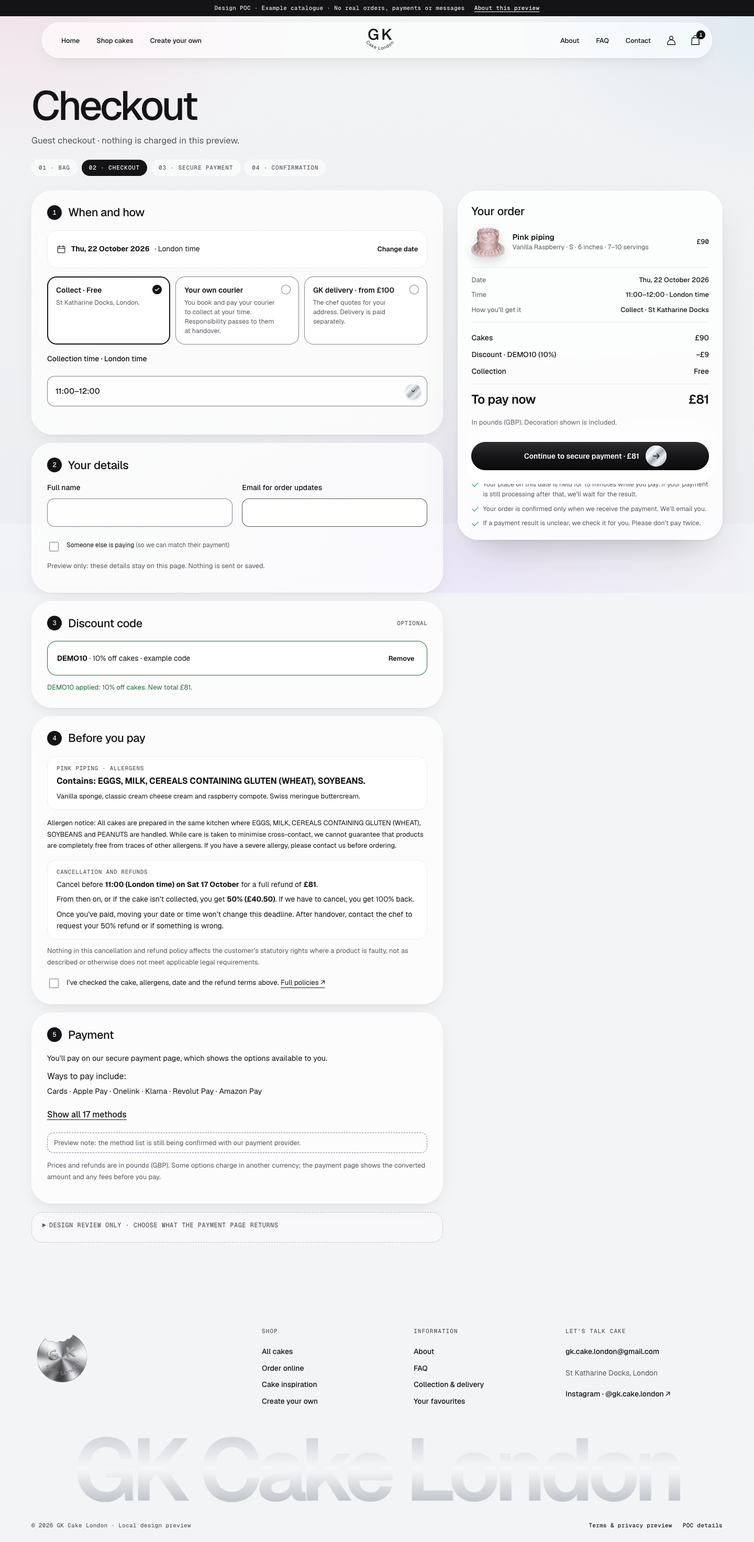
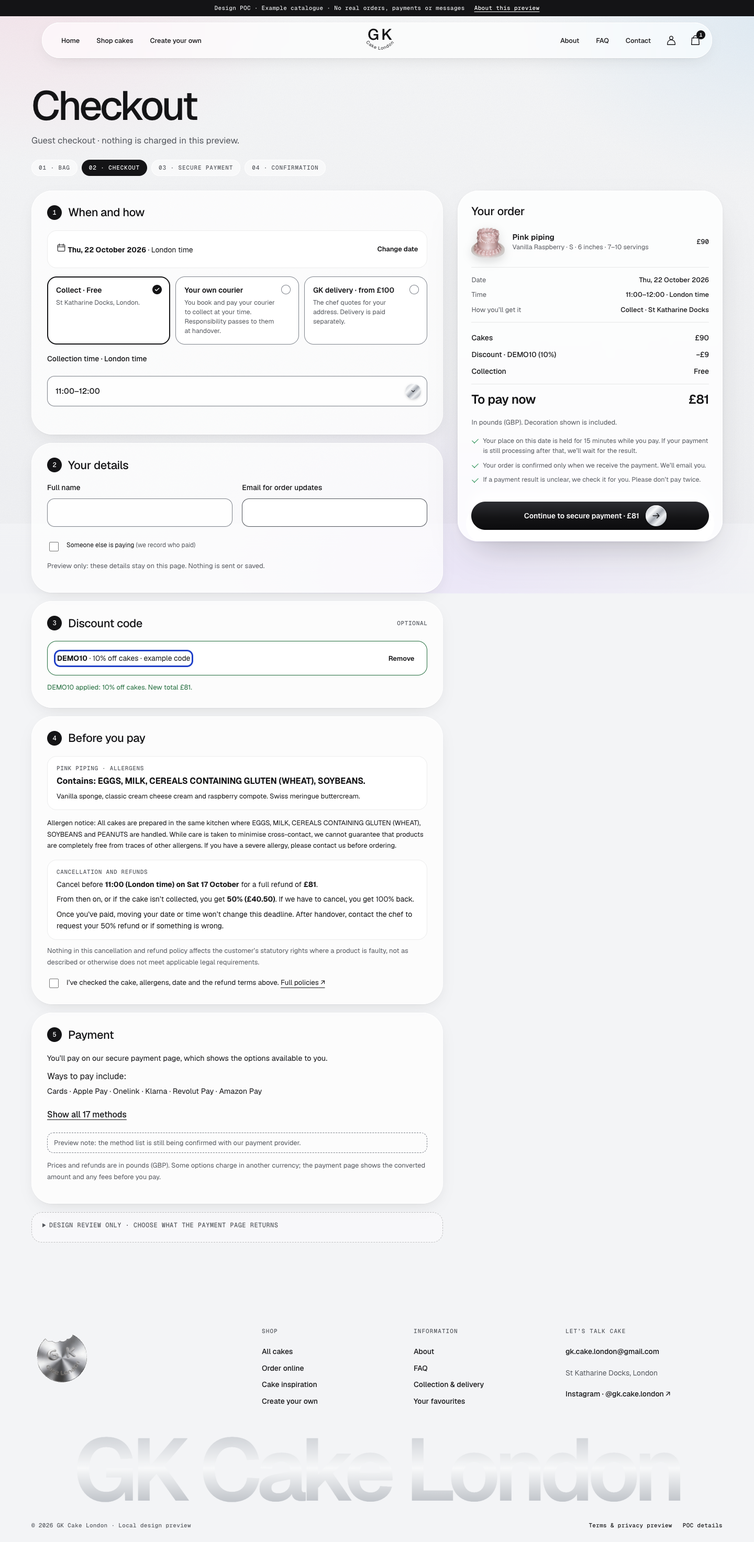
GK-017 r01: address independent review round 3

Changed region(s): [[0.625, 0.2812, 0.9375, 0.3436]]

diff --git a/docs/design/sessions/checkout-recovery/gk-017-r01/poc/app.js b/docs/design/sessions/checkout-recovery/gk-017-r01/poc/app.js
@@ -136,19 +136,19 @@ function bagPage(){const items=bag().map(product);return `<div class="wrap">${ti
 function checkout(){const existing=read('order',null);if(['pending','late'].includes(existing?.state))return `<div class="wrap">${title('Your payment needs a result')}<div class="narrow"><div class="notice">${existing.state==='pending'?'This demo payment is still unknown. Do not start another payment.':'Payment was received; date agreement is pending. Do not pay again.'}</div><a class="button primary" href="order.html">View current status →</a><p class="small quiet">To test a different scenario, explicitly clear demo data on the policy preview page.</p></div></div>`;const items=bag().map(product);if(!items.length)return `<div class="wrap">${title('Checkout')}${empty('Your bag is empty','Choose a cake before previewing checkout.')}</div>`;const sub=items.reduce((n,p)=>n+p.price,0);const methods=['Cards','Apple Pay','Onelink','Klarna','Revolut Pay','Amazon Pay','Cartes Bancaires','Samsung Pay','Satispay','MB WAY','Bancontact','BLIK','EPS','Pix','Kakao Pay','Naver Pay','PAYCO'];
 return `<div class="wrap checkout-page">${title('Checkout','Guest checkout · nothing is charged in this preview.')}<ol class="steps co-steps"><li>01 · Bag</li><li class="active" aria-current="step">02 · Checkout</li><li>03 · Secure payment</li><li>04 · Confirmation</li></ol><p class="co-step-short">Step 2 of 4 · Checkout</p><a class="co-mobile-total" href="#sum-title"><span id="sum-total-top-label">To pay now</span><strong id="sum-total-top">${money(sub)}</strong><span class="co-mobile-link">View order<span aria-hidden="true"> ↓</span></span></a><div class="checkout-layout"><form id="checkout-form" novalidate><div id="error-summary" class="co-errors" role="alert" tabindex="-1" hidden></div>
 <section class="co-card"><h2 class="co-h"><span class="co-num" aria-hidden="true">1</span>When and how</h2><div class="co-date"><span>${icon('calendar')} <strong>${escape(dateLabel(chosenDate()))}</strong> · London time</span><button class="text-link" type="button" data-date>Change date</button></div><fieldset class="co-modes"><legend class="sr-only">How you will get your cake</legend><label class="mode-card"><input type="radio" name="fulfilment" value="collection" checked><span><strong>Collect · Free</strong><small>St Katharine Docks, London.</small></span></label><label class="mode-card"><input type="radio" name="fulfilment" value="courier"><span><strong>Your own courier</strong><small>You book and pay your courier to collect at your time. Responsibility passes to them at handover.</small></span></label><label class="mode-card"><input type="radio" name="fulfilment" value="delivery"><span><strong>GK delivery · from £100</strong><small>The chef quotes for your address. Delivery is paid separately.</small></span></label></fieldset><label class="field" for="slot"><span id="checkout-slot-label">Collection time · London time</span></label><select id="slot" name="slot" aria-labelledby="checkout-slot-label" aria-describedby="slot-status"><option value="">Choose a time</option>${demoSlots(chosenDate()).map(t=>`<option ${read('slot','')===t?'selected':''}>${t}</option>`).join('')}</select><p id="slot-status" class="small quiet co-status" role="status"></p><p id="slot-error" class="field-error" hidden>Choose a time.</p><div id="delivery-note" class="notice co-delivery-note" hidden><p><strong>GK delivery starts with a request.</strong> The chef first confirms your address, time and delivery price. Then you pay: the cakes through a payment link valid for 24 hours, and delivery as a separate payment, unless a free-delivery code is approved.</p><p class="small">Sending a delivery request is designed in the next revision. This preview can’t send one.</p></div></section>
-<section class="co-card"><h2 class="co-h"><span class="co-num" aria-hidden="true">2</span>Your details</h2><div class="two-fields"><div><label class="field">Full name<input id="name" name="name" autocomplete="name" maxlength="80"></label><p id="name-error" class="field-error" hidden>Enter your full name.</p></div><div><label class="field">Email for order updates<input id="email" name="email" type="email" autocomplete="email" maxlength="120"></label><p id="email-error" class="field-error" hidden>Enter an email address like name@example.com.</p></div></div><label class="check-line co-payer-toggle"><input type="checkbox" name="otherPayer" id="other-payer"><span>Someone else is paying <span class="quiet">(so we can match their payment)</span></span></label><div id="payer-field" hidden><label class="field">Payer’s full name<input id="payer" name="payer" autocomplete="off" maxlength="80"></label><p id="payer-error" class="field-error" hidden>Enter the payer’s full name.</p></div><p class="small quiet">Preview only: these details stay on this page. Nothing is sent or saved.</p></section>
+<section class="co-card"><h2 class="co-h"><span class="co-num" aria-hidden="true">2</span>Your details</h2><div class="two-fields"><div><label class="field">Full name<input id="name" name="name" autocomplete="name" maxlength="80"></label><p id="name-error" class="field-error" hidden>Enter your full name.</p></div><div><label class="field">Email for order updates<input id="email" name="email" type="email" autocomplete="email" maxlength="120"></label><p id="email-error" class="field-error" hidden>Enter an email address like name@example.com.</p></div></div><label class="check-line co-payer-toggle"><input type="checkbox" name="otherPayer" id="other-payer"><span>Someone else is paying <span class="quiet">(we record who paid)</span></span></label><div id="payer-field" hidden><label class="field">Payer’s full name<input id="payer" name="payer" autocomplete="off" maxlength="80"></label><p id="payer-error" class="field-error" hidden>Enter the payer’s full name.</p></div><p class="small quiet">Preview only: these details stay on this page. Nothing is sent or saved.</p></section>
 <section class="co-card"><h2 class="co-h"><span class="co-num" aria-hidden="true">3</span>Discount code <span class="co-optional">optional</span></h2><div class="code-row" id="code-row"><label class="field"><span class="sr-only">Discount code</span><input name="code" id="code-input" autocomplete="off" maxlength="30" placeholder="Enter a code" aria-describedby="code-status"></label><button type="button" id="apply-code">Apply</button></div><div class="code-chip" id="code-applied" hidden><span id="code-chip-text" tabindex="-1"></span><button type="button" class="text-link" id="remove-code">Remove</button></div><p id="code-status" class="small code-status" role="status">One code per order. Try the example code <strong>DEMO10</strong>.</p></section>
 <section class="co-card"><h2 class="co-h"><span class="co-num" aria-hidden="true">4</span>Before you pay</h2>${items.map(p=>`<div class="co-allergen"><p class="co-label">${p.name} · allergens</p>${p.id==='chocolate'?'<p class="allergen-alert">Contains PEANUTS</p>':''}<p><strong>Contains: EGGS, MILK, CEREALS CONTAINING GLUTEN (WHEAT), SOYBEANS${p.id==='chocolate'?', PEANUTS':''}.</strong></p><p class="small">${p.composition} Swiss meringue buttercream.</p></div>`).join('')}<p class="cross-contact small">${NOTICE}</p><div class="co-policy" id="refund-terms"><p class="co-label">Cancellation and refunds</p><p>Choose a time to see your exact cancellation deadline.</p></div><p class="small quiet co-statutory">Nothing in this cancellation and refund policy affects the customer’s statutory rights where a product is faulty, not as described or otherwise does not meet applicable legal requirements.</p><label class="check-line co-confirm"><input type="checkbox" id="reviewed" name="reviewed"><span>I’ve checked the cake, allergens, date and the refund terms above. <a href="policies.html" target="_blank" rel="noopener">Full policies<span class="sr-only"> (opens in a new tab)</span> ↗</a></span></label><p id="reviewed-error" class="field-error" hidden>Tick to confirm you’ve checked your order.</p></section>
 <section class="co-card"><h2 class="co-h"><span class="co-num" aria-hidden="true">5</span>Payment</h2><p class="co-lead">You’ll pay on our secure payment page, which shows the options available to you.</p><p class="co-methods-label">Ways to pay include:</p><p class="pay-list">${methods.slice(0,6).join(' · ')}</p><details class="pay-all"><summary>Show all ${methods.length} methods</summary><p class="pay-list">${methods.join(' · ')}</p></details><p class="preview-note small">Preview note: the method list is still being confirmed with our payment provider.</p><p class="small quiet">Prices and refunds are in pounds (GBP). Some options charge in another currency; the payment page shows the converted amount and any fees before you pay.</p></section>
 <details class="review-tools"><summary>Design review only · choose what the payment page returns</summary><label class="field">Simulated result<select name="outcome"><option value="success">Payment confirmed</option><option value="pending">Payment result unknown</option><option value="late">Paid too late for the preparation time · date awaiting agreement</option><option value="changed">Price changed before payment</option><option value="failed">Payment failed</option><option value="expired">Payment link expired</option><option value="recovery">Checkout temporarily unavailable</option></select></label><p class="small quiet">Not a payment method choice. No payment provider is contacted.</p></details>
-</form><aside class="co-summary" aria-labelledby="sum-title"><h2 id="sum-title">Your order</h2>${items.map(p=>`<div class="sum-item">${image(p.id)}<div><strong>${p.name}</strong><span>${p.flavour} · ${p.size} · ${p.serves} servings</span></div><span class="sum-price">${money(p.price)}</span></div>`).join('')}<dl class="sum-meta"><div><dt>Date</dt><dd>${escape(dateLabel(chosenDate()))}</dd></div><div><dt>Time</dt><dd id="sum-time">Choose a time</dd></div><div><dt>How you’ll get it</dt><dd id="sum-mode">Collect · St Katharine Docks</dd></div></dl><div class="totals"><span>Cakes</span><span id="sum-sub">${money(sub)}</span></div><div class="totals" id="sum-discount-row" hidden><span id="sum-discount-label">Discount</span><span id="sum-discount"></span></div><div class="totals"><span id="sum-fulfil-label">Collection</span><span id="sum-fulfil">Free</span></div><div class="totals total"><span id="sum-total-label">To pay now</span><span id="sum-total">${money(sub)}</span></div><p class="small quiet" id="sum-note">In pounds (GBP). Decoration shown is included.</p><button type="submit" form="checkout-form" class="primary co-pay" id="preview-payment"><span id="pay-label">Continue to secure payment · ${money(sub)}</span> ${icon('arrow')}</button><ul class="co-assure"><li id="assure-hold">Your place on this date is held for 15 minutes while you pay. If your payment is still processing after that, we’ll wait for the result.</li><li id="assure-confirm">Your order is confirmed only when we receive the payment. We’ll email you.</li><li id="assure-twice">If a payment result is unclear, we check it for you. Please don’t pay twice.</li></ul><p id="pay-status" class="sr-only" role="status"></p></aside></div></div>`}
+</form><aside class="co-summary" aria-labelledby="sum-title"><h2 id="sum-title">Your order</h2>${items.map(p=>`<div class="sum-item">${image(p.id)}<div><strong>${p.name}</strong><span>${p.flavour} · ${p.size} · ${p.serves} servings</span></div><span class="sum-price">${money(p.price)}</span></div>`).join('')}<dl class="sum-meta"><div><dt>Date</dt><dd>${escape(dateLabel(chosenDate()))}</dd></div><div><dt>Time</dt><dd id="sum-time">Choose a time</dd></div><div><dt>How you’ll get it</dt><dd id="sum-mode">Collect · St Katharine Docks</dd></div></dl><div class="totals"><span>Cakes</span><span id="sum-sub">${money(sub)}</span></div><div class="totals" id="sum-discount-row" hidden><span id="sum-discount-label">Discount</span><span id="sum-discount"></span></div><div class="totals"><span id="sum-fulfil-label">Collection</span><span id="sum-fulfil">Free</span></div><div class="totals total"><span id="sum-total-label">To pay now</span><span id="sum-total">${money(sub)}</span></div><p class="small quiet" id="sum-note">In pounds (GBP). Decoration shown is included.</p><ul class="co-assure"><li id="assure-hold">Your place on this date is held for 15 minutes while you pay. If your payment is still processing after that, we’ll wait for the result.</li><li id="assure-confirm">Your order is confirmed only when we receive the payment. We’ll email you.</li><li id="assure-twice">If a payment result is unclear, we check it for you. Please don’t pay twice.</li></ul><button type="submit" form="checkout-form" class="primary co-pay" id="preview-payment"><span id="pay-label">Continue to secure payment · ${money(sub)}</span> ${icon('arrow')}</button><p id="pay-status" class="sr-only" role="status"></p></aside></div></div>`}
 function orderPage(){const raw=read('order',null);const example=params.get('example')==='true';const o=example?{items:['pink'],date:'2026-10-22',slot:'11:00–12:00',state:'success',mode:'collection'}:raw;if(!o||!Array.isArray(o.items))return `<div class="wrap">${title('Your order')}${empty('No order preview yet','Complete the demo checkout to explore order states.')}</div>`;const items=o.items.map(product).filter(Boolean);const state=['success','pending','late','failed','expired','recovery','changed','cancelled'].includes(o.state)?o.state:'pending';const copy={success:['A moment to look forward to','Simulated order confirmation. No payment was taken and no order or email was created.'],pending:['We’re checking your payment','Demo: the result is unknown. Do not pay again. Wait for a confirmed result; a redirect or expired hold is not payment failure.'],late:['Payment received. Let’s agree your date.','Demo: payment is known successful, but the date needs review. The chef checks feasibility and you explicitly agree; otherwise a full refund is due. Preparation and fulfilment wait.'],changed:['Please review the latest price','Demo: the catalogue price changed before payment. A fresh quote and your agreement to its current total are required. Nothing was paid. Accepted order totals stay unchanged.'],failed:['That payment didn’t go through','Demo: a definitive payment failure. Your cake selection is retained.'],expired:['This payment link has expired','Demo: the 24-hour window for starting payment has ended. Ask the chef for a newly reviewed agreement. An already in-flight payment would keep waiting.'],recovery:['Checkout is temporarily unavailable','Demo: no new payment can start while recovery readiness is unavailable. Your cake selection is retained.'],cancelled:['Cancellation requested in this demo','This local simulation did not cancel a real order or return money. Refund requested and refund completed are distinct states.']}[state];return `<div class="wrap">${title(copy[0])}<div class="narrow"><div class="notice ${state==='success'?'success':''}">${copy[1]}</div><p class="eyebrow">DEMO-001 · Simulated ${example?'account example':'checkout'}</p><div class="content-banner"><h2>${items.map(p=>p.name).join(' & ')}</h2><p>${escape(dateLabel(o.date))} · ${escape(o.slot||'Time to agree')} · London time</p>${o.discount?`<p>Discount${o.code?' · '+escape(o.code):''}: <strong>−${money(o.discount)}</strong></p>`:''}<p>${state==='changed'?'Previous cake total':'Cake total'}: <strong>${money(Number.isInteger(o.total)?o.total:items.reduce((n,p)=>n+p.price,0))}</strong></p><p>${o.mode==='courier'?'Customer-arranged courier':o.mode==='delivery'?'GK delivery request not yet agreed':'Collection from St Katharine Docks'}</p></div>${state==='success'?`<ol class="timeline"><li class="done"><strong>Confirmed · demo</strong><br>Payment and date agreed in this scenario.</li><li>Preparation<br>Chef confirms the start; the automatic clock is 48 hours after cake payment.</li><li>Ready for your celebration<br>Collection details follow separately.</li></ol><div class="form-actions"><button id="change-time">Preview time change</button><button id="cancel-preview">Preview cancellation</button></div><div id="order-action" hidden class="notice" role="status"></div>`:state==='late'?'<div class="notice">Awaiting chef feasibility and your explicit agreement. No automatic date change or production start.</div>':state==='pending'?'<button disabled>Waiting for the payment result</button>':state==='changed'?'<div class="notice">An updated server quote is required before continuing. This local POC does not invent a new price or accept payment.</div><a class="button" href="shop.html">Review the cakes →</a>':state==='cancelled'?'<p class="small">A cancelled order cannot be reopened. A new order needs a new agreement.</p>':'<a class="button" href="bag.html">Return to your retained bag →</a>'}<a class="text-link" href="shop.html">Continue exploring →</a><p class="small quiet">This is a local state preview, not evidence of money movement, reservation, account access or a sent email.</p></div></div>`}
 function account(){return `<div class="wrap">${title('Your cake moments','A preview of your account experience.')}<div class="account-grid"><section class="account-panel"><h2>Welcome back</h2><p class="small">A real sign-in service is not connected in this POC. Explore the account layouts without entering credentials.</p><a class="button primary" href="order.html?example=true">View example order →</a><p class="small quiet">Demo only—not your private order history.</p></section><section class="account-panel"><h2>Your favourites</h2><p class="small">Saved designs stay in this browser tab for this POC. No account is created.</p><a class="button" href="favourites.html">View favourites (${saved().length}) →</a></section></div><div class="narrow"><h2>Order again</h2><p>Revisit a previous design and check its current date, price and ingredients before ordering.</p><a class="button" href="cake.html?id=pink">Preview a reorder →</a></div></div>`}
 function favourites(){const items=saved().map(product);return `<div class="wrap">${title('Your favourites','A little collection of cakes you love.')} ${items.length?`<div class="grid">${items.map(card).join('')}</div><p class="catalog-note">Saved only in this POC browser tab. Recheck current product details before ordering.</p>`:empty('Find something you love','Tap the heart on a cake to keep it here.')}</div>`}
 function information(){if(PAGE==='about')return `<div class="wrap">${title('Made to celebrate','GK Cake London · St Katharine Docks')}<section class="home-story" style="padding-top:0"><div class="story-copy"><h2>Your vision. Our craft.</h2><p>From soft, romantic piping to sculptural silver details, our gallery is a place to find the cake that feels like your occasion.</p><p>Choose an approved cake example or work with Elina on a bespoke design. We agree your flavour, servings, decoration and date together.</p><a class="button primary" href="custom.html">Tell us your idea →</a></div><div class="story-photo">${image('garden')}</div></section></div>${banner()}`;
 if(PAGE==='contact')return `<div class="wrap">${title('Let’s talk cake','Something in mind? We’d love to hear it.')}<div class="narrow"><h2>Tell us about your celebration</h2><p>For a custom design, start with your date, servings, flavour and ideas.</p><a class="button primary" href="custom.html">Create your own →</a><div class="content-banner"></div><h2>Contact details</h2><p>Instagram: <strong>@gk.cake.london</strong><br>Email: <strong>gk.cake.london@gmail.com</strong></p><p>Collection: St Katharine Docks, London. The exact address and instructions are shared privately.</p><p class="small quiet">This POC displays contact details without opening or sending a message.</p></div></div>`;
 if(PAGE==='faq')return `<div class="wrap">${title('A few useful details','Before the celebration begins.')}<div class="narrow">${[['How far ahead should I order?','Ordinary cakes need at least 192 hours from successful full payment to handover. The chef may approve a shorter lead for a specific ready-made or resale cake. That is an individual agreement, not a general same-day promise.'],['Where do I collect my cake?','Collection is from St Katharine Docks. Thursday 11:00–17:00, Friday 10:00–17:00, Saturday 12:30–15:00 and Sunday 11:00–12:00. Available 60-minute slots are shown during ordering. The full address is sent privately.'],['Do you deliver?','Collection is free. You can arrange and pay your own courier. GK delivery is assessed and quoted individually from £100, agreed with the chef, then paid separately through the website. There are no automatic delivery zones or tariffs.'],['Can I change the decoration or size?','Yes—request a custom version and agree the changes and final price with the chef before payment. Each listing’s price includes the decoration shown.'],['Where can I find allergen information?',NOTICE+' Check each cake’s individual contains declaration before purchase.'],['Can I change my collection time?','An available same-day time can be changed at least 6 hours before your current slot starts. For date changes, exceptions or no suitable slot, contact the chef directly.'],['What happens if a payment result is unclear?','Wait for the confirmed result; do not pay again. A payment started in the valid 24-hour window may finish later. If known payment success leaves insufficient preparation time, the chef must confirm feasibility and you must explicitly agree; otherwise a full refund is due.']].map(([q,a],i)=>`<details class="accordion" ${i===0?'open':''} ${i===1?'id="collection"':''}><summary>${q}</summary><p>${a}</p></details>`).join('')}</div></div>`;
-return `<div class="wrap">${title('Policy preview','Design content for review, not final published Terms.')}<div class="narrow"><h2>Cancellation & refunds</h2><p>The current business policy uses the original handover time: customer cancellation strictly more than 120 hours before it returns 100% of the amount actually paid; at that boundary or later, 50%. Chef cancellation returns 100%. Moving the date does not reset that original deadline. Separately paid GK delivery is accounted for in the overall entitlement and refunded separately by the chef.</p><p>Nothing in this cancellation and refund policy affects the customer’s statutory rights where a product is faulty, not as described or otherwise does not meet applicable legal requirements.</p><h2>Your information</h2><p>This POC has no analytics or account service. Only demo cake IDs, favourites, date, time, delivery choice, discount code and order state are kept in this tab’s session storage. Custom descriptions and local reference files stay on the current page and disappear when you leave it. Nothing is uploaded.</p><button id="clear-demo">Clear this tab’s demo data</button><h2 id="prototype">About this prototype</h2><p>GK-017 · checkout design r01 (built on the approved GK-015 r12 visual foundation). All transactions and availability are simulated. The hero is a GPT Image 2 extraction of the Creator’s selected reference with its grey studio background removed on-device (subject mask only, original pixels unchanged), so the page shows through it; it is not a product photograph or a newly approved cake specification. The cake photos are approved processed owner photographs. Three product configurations are approved examples; additional designs are inspiration only. The decorative chrome logos use the Creator-selected composite.png. The header wordmark follows the selected website reference. Motion (page transitions, reveals, ticker, rotating badge, pointer effects) respects the reduced-motion setting.</p><p>Final supplier/label, legal, payment-method and operational verification remain separate project work. This is not a live shop.</p></div></div>`}
+return `<div class="wrap">${title('Policy preview','Design content for review, not final published Terms.')}<div class="narrow"><h2>Cancellation & refunds</h2><p>The current business policy uses the original handover time: customer cancellation strictly more than 120 hours before it returns 100% of the amount actually paid; at that boundary or later, 50%. Chef cancellation returns 100%. Moving the date or time does not reset that original deadline. Separately paid GK delivery is accounted for in the overall entitlement and refunded separately by the chef.</p><p>Nothing in this cancellation and refund policy affects the customer’s statutory rights where a product is faulty, not as described or otherwise does not meet applicable legal requirements.</p><h2>Your information</h2><p>This POC has no analytics or account service. Only demo cake IDs, favourites, date, time, delivery choice, discount code and order state are kept in this tab’s session storage. Custom descriptions and local reference files stay on the current page and disappear when you leave it. Nothing is uploaded.</p><button id="clear-demo">Clear this tab’s demo data</button><h2 id="prototype">About this prototype</h2><p>GK-017 · checkout design r01 (built on the approved GK-015 r12 visual foundation). All transactions and availability are simulated. The hero is a GPT Image 2 extraction of the Creator’s selected reference with its grey studio background removed on-device (subject mask only, original pixels unchanged), so the page shows through it; it is not a product photograph or a newly approved cake specification. The cake photos are approved processed owner photographs. Three product configurations are approved examples; additional designs are inspiration only. The decorative chrome logos use the Creator-selected composite.png. The header wordmark follows the selected website reference. Motion (page transitions, reveals, ticker, rotating badge, pointer effects) respects the reduced-motion setting.</p><p>Final supplier/label, legal, payment-method and operational verification remain separate project work. This is not a live shop.</p></div></div>`}
 function dateDialog(){return `<dialog id="date-dialog" aria-labelledby="date-title" style="max-width:490px;width:calc(100% - 30px);border:1px solid #aeb8bd;border-radius:8px;padding:28px"><form method="dialog"><button class="icon-button" style="float:right" aria-label="Close date picker">×</button></form><h2 class="form-heading" id="date-title">Start with your date</h2><p class="small">Collection · Europe/London · scripted availability preview.</p><input id="date-input" type="hidden" value="${chosenDate()}">${calendar('date-input',chosenDate(),'check')}<p id="date-result" class="notice" role="status">Choose a day to see example times automatically. Nothing is reserved.</p><div id="date-slots" class="slot-choices" aria-label="Example collection times"></div><button id="date-use" class="primary" hidden>Use date & time →</button><p class="small quiet">Ordinary lead time is 192 hours. Specific shorter dates require chef agreement. Only 22 and 24 October are available in this demo. Crossed-out dates cannot be selected.</p><details class="availability-preview"><summary>POC availability states</summary><div class="preview-tools"><button type="button" data-date-scenario="empty">Simulate no times</button><button type="button" data-date-scenario="error">Simulate load error</button></div></details></dialog>`}
 function demoSlots(date){return date==='2026-10-24'?['12:30–13:30','13:00–14:00','13:30–14:30','14:00–15:00']:['11:00–12:00','12:00–13:00']}
 // One dependency-free calendar shared by the request form and availability preview.

diff --git a/docs/design/sessions/checkout-recovery/gk-017-r01/poc/styles.css b/docs/design/sessions/checkout-recovery/gk-017-r01/poc/styles.css
@@ -658,10 +658,16 @@ input[type=checkbox][aria-invalid=true]{outline:2px solid var(--error);outline-o
 .co-delivery-note p{margin:0 0 6px}.co-delivery-note p:last-child{margin:0}
 @media(max-width:760px){.co-steps{display:none}.co-step-short{display:block;margin:0 0 16px;font:500 12px/1.4 var(--mono);letter-spacing:.06em;text-transform:uppercase;color:var(--muted)}}
 /* GK-017 r01 review round 2: Continue always reachable on short desktop screens, busy state, error spacing. */
-@media(min-width:1051px){.co-summary{max-height:calc(100vh - 124px);overflow-y:auto;overscroll-behavior:contain}.co-summary .co-pay{position:sticky;bottom:0;z-index:2;box-shadow:0 -18px 22px 2px #fff,0 16px 0 10px #fff}}
+@media(min-width:1051px){.co-summary{max-height:calc(100vh - 124px);overflow-y:auto}.co-summary .co-pay{position:sticky;bottom:0;z-index:2;box-shadow:0 -18px 22px 2px #fff,0 16px 0 10px #fff}}
 .co-pay.is-busy{cursor:progress}.co-pay.is-busy svg{display:none}
 .co-pay.is-busy::after{content:'';width:16px;height:16px;flex:none;border-radius:50%;border:2px solid #ffffff66;border-top-color:#fff;animation:co-spin .8s linear infinite}
 @keyframes co-spin{to{transform:rotate(360deg)}}@media(prefers-reduced-motion:reduce){.co-pay.is-busy::after{animation:none}}
 .co-card .field:has(+ .field-error:not([hidden])){margin-bottom:0}.co-card .field+.field-error{margin:6px 0 18px}
 .co-date{flex-wrap:wrap}
 .preview-note{margin:0 0 10px;padding:8px 12px;border:1px dashed var(--line);border-radius:12px;color:var(--muted)}
+/* GK-017 r01 review round 3: opaque pinned button in every state, stacked delivery note, chip focus, inline time zone. */
+@media(min-width:1051px){.co-summary .co-pay:is(:disabled,:hover,[aria-disabled=true]){box-shadow:0 -18px 22px 2px #fff,0 16px 0 10px #fff}.co-summary .co-pay:disabled{background:#e9eaea;color:#4a4e4e;opacity:1}}
+.co-assure{margin:16px 0 18px}
+.co-delivery-note{flex-direction:column;align-items:stretch}
+#code-chip-text:focus{outline:3px solid var(--focus);outline-offset:3px;border-radius:6px}
+.co-date>span{display:block}

diff --git a/docs/design/sessions/checkout-recovery/gk-017-r01/session.md b/docs/design/sessions/checkout-recovery/gk-017-r01/session.md
@@ -16,8 +16,8 @@ Writes: this folder only, on branch `sasha-chycha/gk-017-checkout-design` from m
 
 ## What the checkout shows (AC1)
 
-Five numbered sections plus an order summary (sticky on tall desktop screens; below the form on tablet,
-mobile and short laptop screens, with a "To pay now" line at the top):
+Five numbered sections plus an order summary (sticky on desktop, capped to the screen height with
+Continue pinned at its bottom; below the form on tablet and mobile, with a "To pay now" line at the top):
 
 1. **When and how** — date (change), Collect free · St Katharine Docks / Your own courier
    (responsibility passes to them at handover) / GK delivery from £100. The time list loads
@@ -78,7 +78,7 @@ Independent AI review on PR #6 (round 1, head fb04036): two specialist reviewers
 (checkout UX/accessibility; payments and refund-policy rules), both **revise**, no blockers. All findings
 fixed except those deferred to r02 (round 2 on 60fc88c: both revise, one major each — Continue
 out of reach on short desktop screens; FREEDELIVERY kept on a collection order after a date change — fixed
-with the minor items): delivery request form, already-past deadline
+with the minor items; round 3 on d4ee7f3: payments pass, UX revise — page scroll trapped over the summary — fixed): delivery request form, already-past deadline
 variant, free-order (£0) path, "last place taken" when Continue is pressed, and keeping typed details
 across a date change (prototype limitation, specified for the live shop). Record: PR #6 comments.
 
